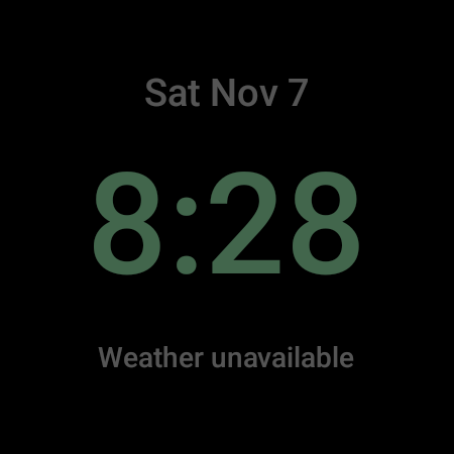
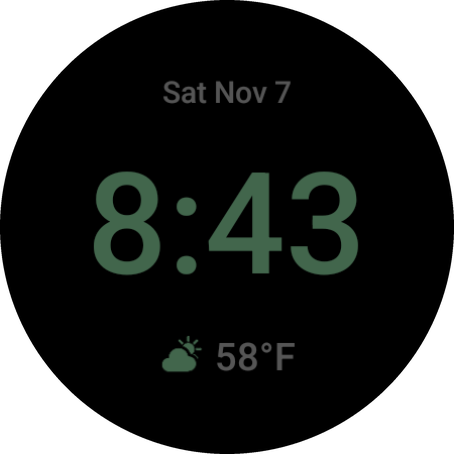
Add screenshots and color variants to README
Show all six color options and the always-on display, rendered on a
Wear OS 7 emulator. Remove screenshots of the earlier layout.

diff --git a/README.md b/README.md
@@ -3,7 +3,32 @@
 A personal Pixel Watch 5 face styled after Google's Utility face: the date at the top, large digital
 time in the middle, and the current weather icon and temperature below.
 
+<p align="center">
+  <img src="screenshots/colors/mint.png" alt="Watch face in mint showing the date, large time, and a weather icon with 58°F" width="320">
+</p>
+
 Built with Watch Face Format 2 (the lowest version with weather data), so it contains no app code.
+
+## Screenshots
+
+### Colors
+
+The color setting changes the time and the weather icon. The date and temperature stay white.
+
+| Mint (default) | Sky | Amber |
+|:---:|:---:|:---:|
+| <img src="screenshots/colors/mint.png" alt="Mint color option" width="200"> | <img src="screenshots/colors/sky.png" alt="Sky color option" width="200"> | <img src="screenshots/colors/amber.png" alt="Amber color option" width="200"> |
+
+| Rose | Lavender | White |
+|:---:|:---:|:---:|
+| <img src="screenshots/colors/rose.png" alt="Rose color option" width="200"> | <img src="screenshots/colors/lavender.png" alt="Lavender color option" width="200"> | <img src="screenshots/colors/white.png" alt="White color option" width="200"> |
+
+### Always-on display
+
+<img src="screenshots/always-on.png" alt="Dimmed always-on view of the watch face" width="200">
+
+These were rendered on a Wear OS 7 emulator using test builds with the color and weather fixed, so
+the 58°F reading is sample data.
 
 ## Install on the watch
 
